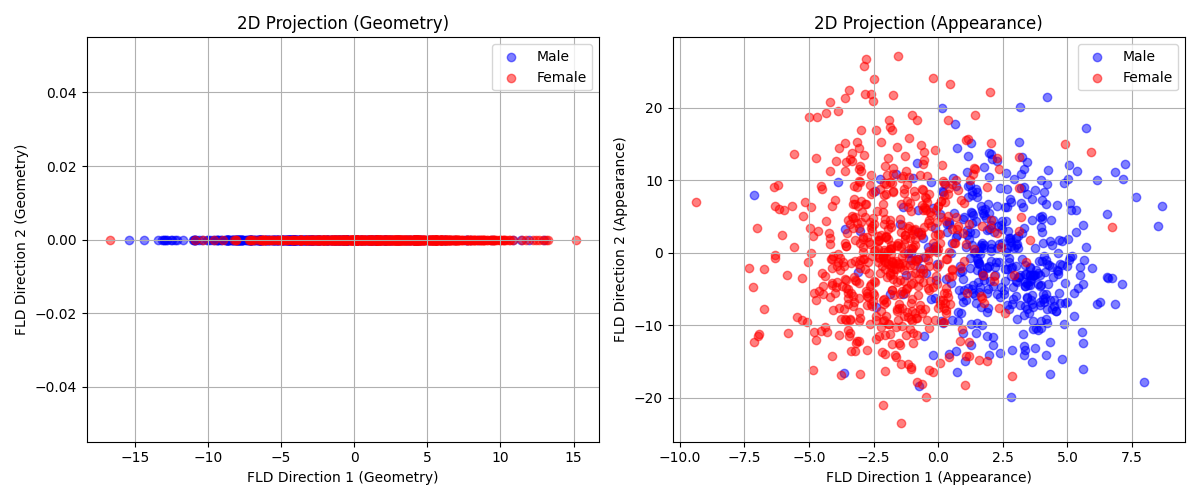
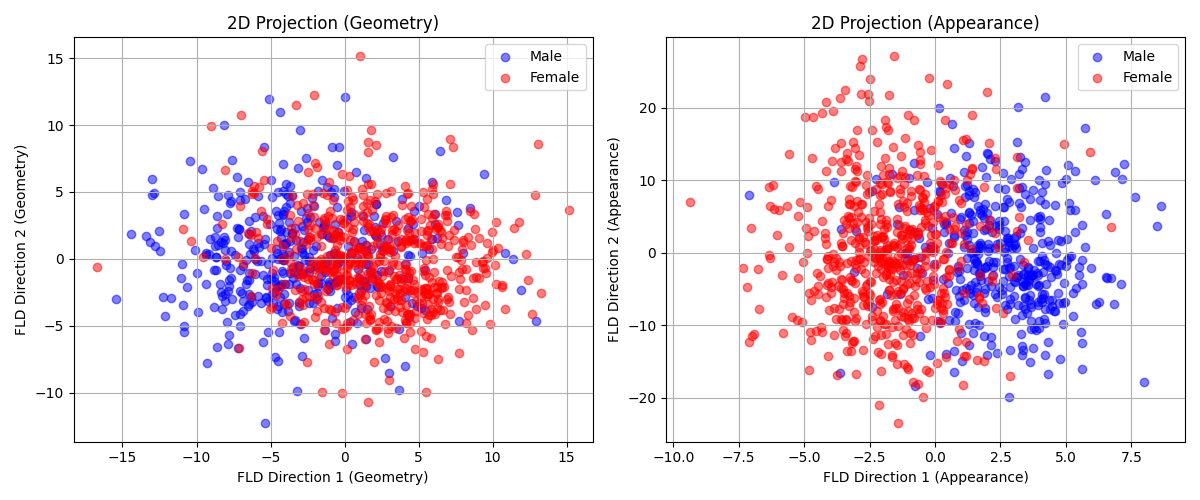
minor code changes

diff --git a/q52.py b/q52.py
@@ -98,7 +98,14 @@ for i in range(800):
         S_w_land += np.outer(landmarks_train_pca[:, i] - mu_land_1, landmarks_train_pca[:, i] - mu_land_1)
 W_land = np.linalg.solve(S_w_land + 1e-5 * np.eye(10), mu_land_1 - mu_land_0)
 W_land = W_land / np.linalg.norm(W_land)
-W_land_2d = np.column_stack([W_land.real, np.zeros(10)])  # First direction, second is zero for 2D
+
+# Derive second direction orthogonal to W_land using within-class scatter matrix
+S_eigvals, S_eigvecs = np.linalg.eigh(S_w_land)
+# Sort eigenvectors by eigenvalues and select the second direction (orthogonal to W_land)
+idx = np.argsort(S_eigvals)
+W_land_2 = S_eigvecs[:, idx[1]]  # Second smallest eigenvalue vector (approximately orthogonal)
+W_land_2d = np.column_stack([W_land, W_land_2])
+W_land_2d = W_land_2d / np.linalg.norm(W_land_2d, axis=0)  # Normalize columns
 
 # FLD for images (appearance)
 mu_face_0 = np.mean(images_train_pca[:, labels_train == 0], axis=1)
@@ -111,8 +118,8 @@ for i in range(800):
         S_w_face += np.outer(images_train_pca[:, i] - mu_face_1, images_train_pca[:, i] - mu_face_1)
 W_face = np.linalg.solve(S_w_face + 1e-5 * np.eye(50), mu_face_1 - mu_face_0)
 W_face = W_face / np.linalg.norm(W_face)
-evals, evecs = np.linalg.eigh(np.outer(W_face, W_face))  # Get eigenvalues and eigenvectors
-idx = np.argsort(evals)[::-1]  # Sort in descending order
+evals, evecs = np.linalg.eigh(np.outer(W_face, W_face))
+idx = np.argsort(evals)[::-1]
 W_face_2d = evecs[:, idx[:2]]  # Take top 2 eigenvectors
 
 # Project to 2D feature space
@@ -121,32 +128,29 @@ proj_land_test = W_land_2d.T @ landmarks_test_pca
 proj_face_train = W_face_2d.T @ images_train_pca
 proj_face_test = W_face_2d.T @ images_test_pca
 
-# Combine training and test data for plotting
-proj_land_all = np.hstack([proj_land_train, proj_land_test])
-proj_face_all = np.hstack([proj_face_train, proj_face_test])
-labels_all = np.hstack([labels_train, labels_test])
-
-# Visualize separability
+# Visualize Fisher Face projections
 plt.figure(figsize=(12, 5))
 
+# Fisher Face Projection (Geometry) - Training Data Only
 plt.subplot(1, 2, 1)
-plt.scatter(proj_land_all[0, labels_all == 0], proj_land_all[1, labels_all == 0], c='blue', alpha=0.5, label='Male')
-plt.scatter(proj_land_all[0, labels_all == 1], proj_land_all[1, labels_all == 1], c='red', alpha=0.5, label='Female')
-plt.xlabel('FLD Direction 1 (Geometry)')
-plt.ylabel('FLD Direction 2 (Geometry)')
-plt.title('2D Projection (Geometry)')
+plt.scatter(proj_land_train[0, labels_train == 0], proj_land_train[1, labels_train == 0], c='blue', alpha=0.5, label='Male')
+plt.scatter(proj_land_train[0, labels_train == 1], proj_land_train[1, labels_train == 1], c='red', alpha=0.5, label='Female')
+plt.xlabel('Fisher Face Direction 1 (Geometry)')
+plt.ylabel('Fisher Face Direction 2 (Geometry)')
+plt.title('Fisher Face (Geometry)')
 plt.legend()
 plt.grid(True)
 
+# Fisher Face Projection (Appearance) - Training Data Only
 plt.subplot(1, 2, 2)
-plt.scatter(proj_face_all[0, labels_all == 0], proj_face_all[1, labels_all == 0], c='blue', alpha=0.5, label='Male')
-plt.scatter(proj_face_all[0, labels_all == 1], proj_face_all[1, labels_all == 1], c='red', alpha=0.5, label='Female')
-plt.xlabel('FLD Direction 1 (Appearance)')
-plt.ylabel('FLD Direction 2 (Appearance)')
-plt.title('2D Projection (Appearance)')
+plt.scatter(proj_face_train[0, labels_train == 0], proj_face_train[1, labels_train == 0], c='blue', alpha=0.5, label='Male')
+plt.scatter(proj_face_train[0, labels_train == 1], proj_face_train[1, labels_train == 1], c='red', alpha=0.5, label='Female')
+plt.xlabel('Fisher Face Direction 1 (Appearance)')
+plt.ylabel('Fisher Face Direction 2 (Appearance)')
+plt.title('Fisher Face (Appearance)')
 plt.legend()
 plt.grid(True)
 
 plt.tight_layout()
-plt.savefig(os.path.join(output_dir, 'fld_2d_projections.png'))
+plt.savefig(os.path.join(output_dir, 'fisher_face_projections.png'))
 plt.close()
